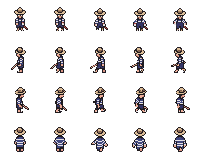
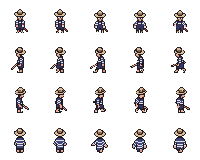
レビューの指摘を直す: 足元の高さをそろえる、暗転中は立ち姿にする など
- pack_character.py: 各行の足元を同じ高さ（FOOT_Y = 33）にそろえる。歩行は名前に walk を含むアニメーションを選び、前提が崩れたら日本語のエラーで止める
- 主人公のシートを作り直した（上・下向きの足元が 1〜2px 浮いていたのを解消）
- 出口・遭遇・イベントの戦闘や移動で暗転するときも、歩行アニメーションを止めて立ち姿にする
- 立ち姿に戻す条件を shouldStandStill に切り出してテストを追加。行の並びを FACINGS だけで定義する
- コメントの修正（記録の場所、読み込み失敗に備えない理由）

Claude-Session: https://claude.ai/code/session_01TGCvVfKEuQR3zXEaC5RvQC

diff --git a/src/scenes/FieldScene.ts b/src/scenes/FieldScene.ts
@@ -12,7 +12,7 @@ import { playBgm } from '../systems/audio';
 import { browserStorage } from '../systems/save';
 import { getState, setPendingEvent, setState, takePendingEvent } from '../state';
 import { EVENTS } from '../data/events';
-import { CHAR_DISPLAY_ORIGIN, heroSprite, idleFrame, spriteKey, walkAnimKey, type CharacterSpriteId } from '../data/sprites';
+import { CHAR_DISPLAY_ORIGIN, heroSprite, idleFrame, shouldStandStill, spriteKey, walkAnimKey, type CharacterSpriteId } from '../data/sprites';
 import { EventRunner, type EventInput } from '../systems/eventScript';
 import { Controls } from '../ui/input';
 import { FieldMenu } from '../ui/FieldMenu';
@@ -174,6 +174,7 @@ export class FieldScene extends Phaser.Scene {
         setPendingEvent({ runner, fromMapId });
         this.runner = null;
         this.moving = true;
+        this.standStill();
         this.cameras.main.flash(250, 255, 255, 255);
         this.time.delayedCall(260, () =>
           this.scene.start('Battle', { enemyIds: request.enemies, level: request.level, canEscape: request.canEscape, loseOk: request.loseOk }),
@@ -183,6 +184,7 @@ export class FieldScene extends Phaser.Scene {
         setPendingEvent({ runner, fromMapId });
         this.runner = null;
         this.moving = true;
+        this.standStill();
         this.cameras.main.fadeOut(200, 0, 0, 0);
         this.cameras.main.once('camerafadeoutcomplete', () => this.scene.restart({}));
         return;
@@ -238,13 +240,12 @@ export class FieldScene extends Phaser.Scene {
     this.followPlayer();
 
     if (this.message.isOpen) {
-      if (!this.moving) this.standStill();
+      if (shouldStandStill({ moving: this.moving, busy: true, held: false })) this.standStill();
       this.message.update(this.controls);
       return;
     }
     const top = this.overlays[this.overlays.length - 1];
-    // 歩いていないとき（止まった、メニューや会話を開いた、イベントが始まった）は立ち姿に戻す
-    if (!this.moving && (top || this.runner || !this.controls.heldDirection())) this.standStill();
+    if (shouldStandStill({ moving: this.moving, busy: !!top || !!this.runner, held: this.controls.heldDirection() !== null })) this.standStill();
     if (top) {
       top.update(this.controls);
       return;
@@ -335,6 +336,7 @@ export class FieldScene extends Phaser.Scene {
     );
     if (!group) return;
     this.moving = true;
+    this.standStill();
     this.cameras.main.flash(250, 255, 255, 255);
     this.time.delayedCall(260, () => this.scene.start('Battle', { enemyIds: group, level: table.level }));
   }
@@ -345,6 +347,7 @@ export class FieldScene extends Phaser.Scene {
     this.cameras.main.fadeOut(200, 0, 0, 0);
     this.cameras.main.once('camerafadeoutcomplete', () => this.scene.restart({}));
     this.moving = true;
+    this.standStill();
   }
 
   private interact(): void {

diff --git a/src/data/sprites.ts b/src/data/sprites.ts
@@ -1,5 +1,5 @@
 // キャラクターのスプライトシート（PixelLab で生成し、scripts/pack_character.py でまとめたもの）。
-// 画像は public/assets/chars/ に置き、assets/README.md に生成の記録を残す。
+// 画像は public/assets/chars/ に置き、public/assets/README.md に生成の記録を残す。
 import type { Facing } from '../systems/gameState';
 import type { Gender } from './characters';
 
@@ -7,7 +7,7 @@ import type { Gender } from './characters';
 export const CHAR_FRAME = 40;
 /**
  * タイルの左上に置いたとき、コマのどの点をタイルの左上に合わせるか。
- * 左右はコマの中央（20）をタイルの中央（8）に、足元（コマの y = 33 付近）をタイルの下端（15）に合わせる。
+ * 左右はコマの中央（20）をタイルの中央（8）に、足元（コマの y = 33。scripts/pack_character.py の FOOT_Y）をタイルの下端（15）に合わせる。
  */
 export const CHAR_DISPLAY_ORIGIN = { x: 12, y: 18 } as const;
 /** 歩行のコマ数（列 1〜4。列 0 は立ち）。 */
@@ -16,8 +16,7 @@ export const WALK_FRAMES = 4;
 export const WALK_FPS = 14;
 
 /** シートの行の並び（scripts/pack_character.py の ROWS と同じ順）。 */
-const ROW: Record<Facing, number> = { down: 0, left: 1, right: 2, up: 3 };
-export const FACINGS: Facing[] = ['down', 'left', 'right', 'up'];
+export const FACINGS: readonly Facing[] = ['down', 'left', 'right', 'up'];
 
 /** シートがあるキャラクター。 */
 export const CHARACTER_SPRITES = ['hero_m', 'hero_f'] as const;
@@ -33,7 +32,7 @@ export function heroSprite(gender: Gender): CharacterSpriteId {
 
 /** 立ち姿のコマ番号。 */
 export function idleFrame(facing: Facing): number {
-  return ROW[facing] * (1 + WALK_FRAMES);
+  return FACINGS.indexOf(facing) * (1 + WALK_FRAMES);
 }
 
 /** 歩行のコマ番号（i は 0〜WALK_FRAMES-1）。 */
@@ -43,4 +42,12 @@ export function walkFrame(facing: Facing, i: number): number {
 
 export function walkAnimKey(id: CharacterSpriteId, facing: Facing): string {
   return `${spriteKey(id)}-walk-${facing}`;
+}
+
+/**
+ * 立ち姿に戻すか。歩いている途中（1 歩の移動中）は戻さない。
+ * 止まっているときは、メニュー・会話・イベントの最中（busy）か、方向が押されていなければ戻す。
+ */
+export function shouldStandStill(s: { moving: boolean; busy: boolean; held: boolean }): boolean {
+  return !s.moving && (s.busy || !s.held);
 }

diff --git a/src/data/sprites.test.ts b/src/data/sprites.test.ts
@@ -1,5 +1,5 @@
 import { describe, expect, it } from 'vitest';
-import { FACINGS, heroSprite, idleFrame, walkFrame, WALK_FRAMES } from './sprites';
+import { FACINGS, heroSprite, idleFrame, shouldStandStill, walkFrame, WALK_FRAMES } from './sprites';
 
 describe('キャラクターのスプライトシート', () => {
   it('行は下・左・右・上、列は立ちと歩行 4 コマ', () => {
@@ -20,5 +20,24 @@ describe('キャラクターのスプライトシート', () => {
   it('主人公の性別からシートを選ぶ', () => {
     expect(heroSprite('m')).toBe('hero_m');
     expect(heroSprite('f')).toBe('hero_f');
+  });
+});
+
+describe('立ち姿に戻すか', () => {
+  it('1 歩の移動中は戻さない', () => {
+    expect(shouldStandStill({ moving: true, busy: false, held: true })).toBe(false);
+    expect(shouldStandStill({ moving: true, busy: true, held: false })).toBe(false);
+  });
+
+  it('止まっていて方向が押されていなければ戻す', () => {
+    expect(shouldStandStill({ moving: false, busy: false, held: false })).toBe(true);
+  });
+
+  it('方向が押され続けていれば、次の 1 歩に続けるため戻さない', () => {
+    expect(shouldStandStill({ moving: false, busy: false, held: true })).toBe(false);
+  });
+
+  it('メニュー・会話・イベントの最中は、方向が押されていても戻す', () => {
+    expect(shouldStandStill({ moving: false, busy: true, held: true })).toBe(true);
   });
 });

diff --git a/src/scenes/BootScene.ts b/src/scenes/BootScene.ts
@@ -20,7 +20,10 @@ const TILE_COLORS: Record<TileKind, [number, number]> = {
   gate: [0xd8c08e, 0x5a3a1e],
 };
 
-/** 画像を読み込み、まだ画像のないものは仮の画像をコードで描いてテクスチャにする。 */
+/**
+ * 画像を読み込み、まだ画像のないもの（タイル・NPC・敵）は仮の画像をコードで描いてテクスチャにする。
+ * 読み込みに失敗したときの代わりの画像は用意していない（画像はビルドに同梱する静的なファイルで、CI の build で配置を確かめるため）。
+ */
 export class BootScene extends Phaser.Scene {
   constructor() {
     super('Boot');
@@ -91,7 +94,6 @@ export class BootScene extends Phaser.Scene {
     g.fillStyle(0x000000, 0.35);
     g.fillRect(4, 14, 8, 1);
     g.generateTexture('person', 16, 16);
-
 
     // 敵（白い塊をティントで色分けする）
     g.clear();

diff --git a/scripts/pack_character.py b/scripts/pack_character.py
@@ -3,9 +3,12 @@
 使い方: python3 scripts/pack_character.py <展開したフォルダ> <出力 PNG>
 必要なもの: Pillow
 
-シートの並び（立ち姿と歩行でキャンバスの大きさが違うときは、大きいほうに合わせて中央に置く）:
-- 行: 下・左・右・上（src/systems/gameState.ts の Facing の順）
-- 列: 0 = 立ち、1〜4 = 歩行（walk アニメーションのコマ）
+シートの並び:
+- 行: 下・左・右・上（src/data/sprites.ts の FACINGS と同じ順）
+- 列: 0 = 立ち、1〜4 = 歩行（名前に walk を含むアニメーションのコマ）
+- 1 コマの大きさは、立ち姿と歩行のうち大きいキャンバスに合わせる（今は 40 × 40）。
+- 左右はコマの中央に置く。上下は、どの行も足元（行の中でいちばん下の不透明ピクセル）が同じ高さ（FOOT_Y）にそろうように置く。
+  src/data/sprites.ts の CHAR_DISPLAY_ORIGIN.y は、この FOOT_Y をタイルの下端に合わせる値にしている。
 """
 import json
 import sys
@@ -15,28 +18,62 @@ from PIL import Image
 
 ROWS = ["south", "west", "east", "north"]
 WALK_FRAMES = 4
+# 足元をそろえる高さ（コマの上端からのピクセル。40 × 40 のコマで、下に 6px の余白を残す）
+FOOT_Y = 33
+
+
+def fail(message: str) -> None:
+    raise SystemExit(f"エラー: {message}")
+
+
+def load(root: Path, rel: str) -> Image.Image:
+    path = root / rel
+    if not path.is_file():
+        fail(f"画像がありません: {path}")
+    return Image.open(path).convert("RGBA")
 
 
 def main(src: str, out: str) -> None:
     root = Path(src)
-    meta = json.loads((root / "metadata.json").read_text())
-    state = meta["states"][0]
-    frames = state["frames"]
-    walk = next(iter(frames["animations"].values()), None)
-    if walk is None:
-        raise SystemExit("歩行アニメーションがありません")
+    meta_path = root / "metadata.json"
+    if not meta_path.is_file():
+        fail(f"{meta_path} がありません（PixelLab の ZIP を展開したフォルダを指定してください）")
+    meta = json.loads(meta_path.read_text())
+    states = meta.get("states") or []
+    if not states:
+        fail("metadata.json に states がありません")
+    frames = states[0].get("frames", {})
+    rotations = frames.get("rotations", {})
+    walks = [k for k in frames.get("animations", {}) if "walk" in k]
+    if len(walks) != 1:
+        fail(f"名前に walk を含むアニメーションがちょうど 1 つ必要です（見つかったもの: {walks}）")
+    walk = frames["animations"][walks[0]]
+
     grid: list[list[Image.Image]] = []
     for d in ROWS:
-        paths = walk[d]
-        if len(paths) != WALK_FRAMES:
-            raise SystemExit(f"{d} の歩行のコマ数が {len(paths)} です（{WALK_FRAMES} を想定）")
-        grid.append([Image.open(root / p).convert("RGBA") for p in [frames["rotations"][d], *paths]])
+        if d not in rotations:
+            fail(f"{d} の立ち姿がありません")
+        paths = walk.get(d)
+        if paths is None or len(paths) != WALK_FRAMES:
+            fail(f"{d} の歩行のコマ数が {0 if paths is None else len(paths)} です（{WALK_FRAMES} を想定）")
+        grid.append([load(root, p) for p in [rotations[d], *paths]])
+
     w = max(im.width for row in grid for im in row)
     h = max(im.height for row in grid for im in row)
     sheet = Image.new("RGBA", (w * (1 + WALK_FRAMES), h * len(ROWS)), (0, 0, 0, 0))
     for r, row in enumerate(grid):
-        for c, im in enumerate(row):
-            sheet.alpha_composite(im, (c * w + (w - im.width) // 2, r * h + (h - im.height) // 2))
+        # 行の中では上下の位置関係（歩行の上下動）を保ったまま、行全体の足元を FOOT_Y にそろえる
+        tops = [(h - im.height) // 2 for im in row]
+        boxes = [im.getbbox() for im in row]
+        bottoms = [t + b[3] for t, b in zip(tops, boxes) if b]
+        if not bottoms:
+            fail(f"{ROWS[r]} の行がすべて透明です")
+        shift = FOOT_Y - max(bottoms)
+        for c, (im, top) in enumerate(zip(row, tops)):
+            # コマからはみ出す分（キャンバスの上下の透明な余白）は切り落とす
+            y = top + shift
+            im = im.crop((0, max(0, -y), im.width, min(im.height, h - y)))
+            sheet.alpha_composite(im, (c * w + (w - im.width) // 2, r * h + max(0, y)))
     Path(out).parent.mkdir(parents=True, exist_ok=True)
     sheet.save(out)
     print(f"{out}: {w}x{h} x {1 + WALK_FRAMES} cols x {len(ROWS)} rows")
